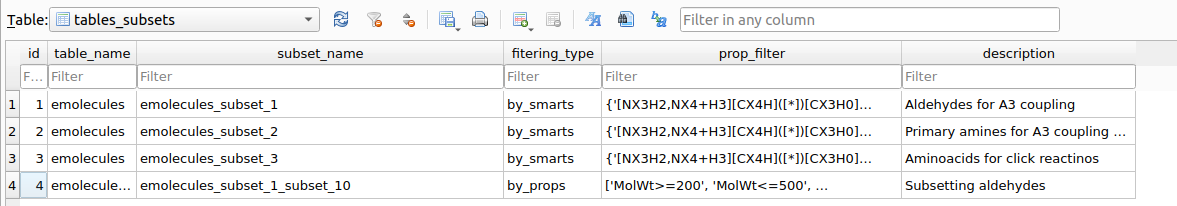
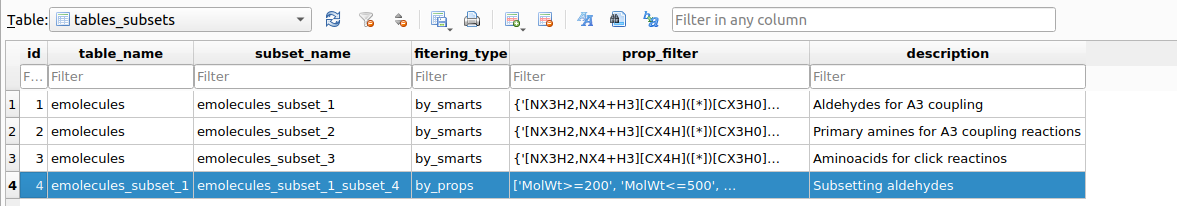
WIP

diff --git a/docs/examples/chemical_space_synthesis.md b/docs/examples/chemical_space_synthesis.md
@@ -14,7 +14,7 @@ The execution of a virtual drug screening campaing encompasess diverse medicinal
 <figure>
   <p align="center">
   <img src="/TidyScreen_v2_docs_new/img/CZP.png" alt="Description of image" width="1000"/>
-  <figcaption>**Figure 1:** Three-dimensional structure of the CZP, the target enzime for which ligands/inhibitors are to be constructed.</figcaption>
+  <figcaption>**Figure 1:** Three-dime7nsional structure of the CZP, the target enzime for which ligands/inhibitors are to be constructed.</figcaption>
   </p>
 </figure>
 ---
@@ -277,6 +277,24 @@ Upon execution, a record will be stored in the `tables_subsets` table:
 </figure>
 ---
 
+As can be seen the table `emolecules_subset_1_subset_4` has been created based on the corresponding filtering workflow. It is advisable to retain this table name for tracebility in the reactants filterings. If the user wants to copy this subsetted table with a more comprehensive name, it can be done as follows:
+
+```python
+## Copy the subseted table with a new name
+>>> synthesis_example_chemspace.copy_table_to_new_name("emolecules_subset_1_subset_4","aldehydes_for_A3_coupling")
+```
+
+In case the user wants to save the filtered table as a `.csv` file for storing purposes use:
+
+```python
+# Save a .csv file with the filtered table
+>>> synthesis_example_chemspace.save_table_to_csv("emolecules_subset_1_subset_4")
+```
+
+For the purposes of this example, custom drug-like filtering criterias were applied on the aldehydes, primary amines and aminoacids, leading to a set of:
+- Aldehydes: 6022
+- Primary amines: 4037
+- Aminoacids: 1517
 
 
 
@@ -292,7 +310,7 @@ synthesis_example_chemspace.list_available_smarts_reactions()
 Note that the first time you run this listing, since no reactions are available for the project, the message `"SMARTS reactions table does not exist yet. Add reactions to the database first."` will be printed to the terminal. To add user defined reactions in the SMARTS formats use: 
 
 ```python
-synthesis_example_chemspace.add_smarts_reaction("SMARTS_REACTION", "Description") 
+>>> synthesis_example_chemspace.add_smarts_reaction("SMARTS_REACTION", "Description") 
 ```
 
 In the context of the chemical synthesis shown in Figure 2, we are interested in performing the following reactions as part of our synthetic scheme:
@@ -328,6 +346,7 @@ Upon adding reactions, a table named `smarts_reactions` will be created in the `
   </p>
 </figure>
 ---
+
 
 
 
